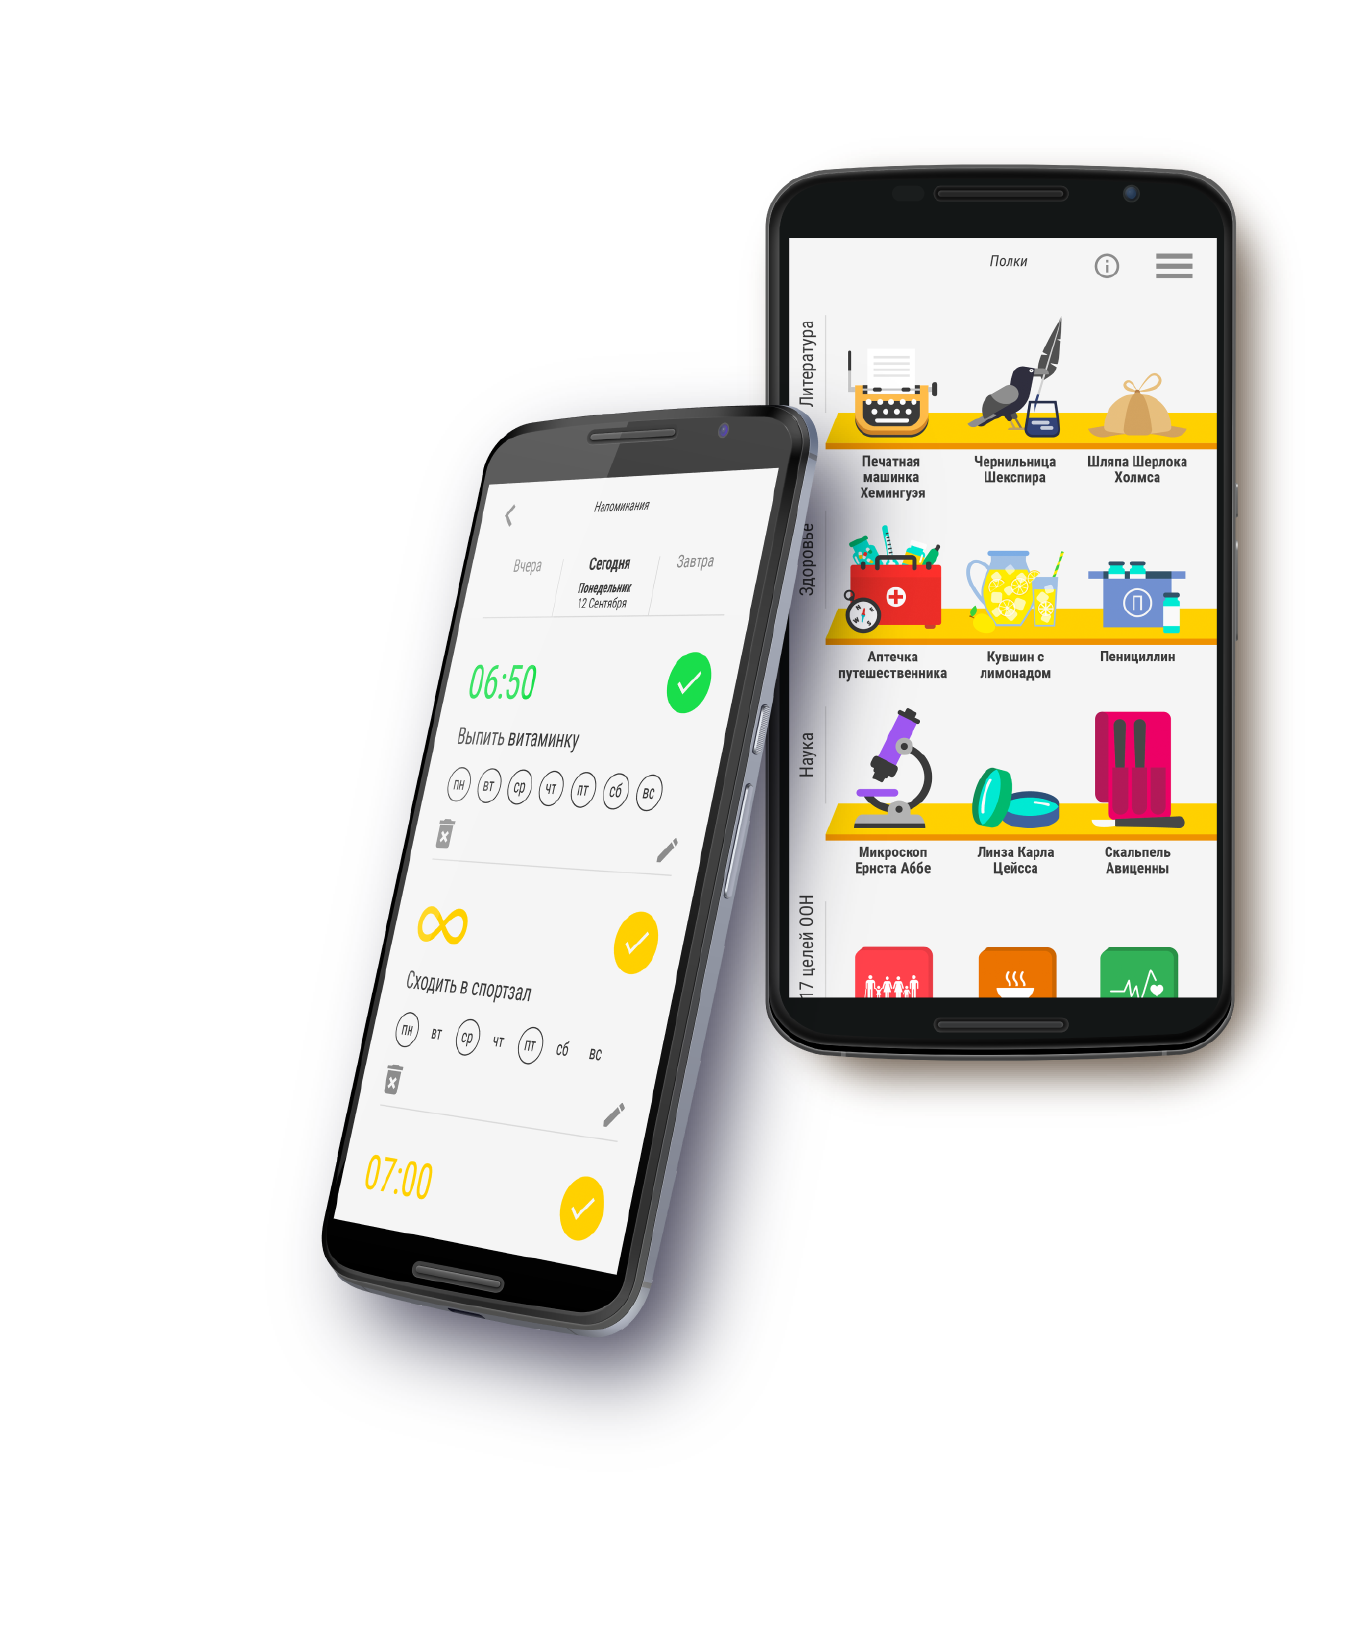
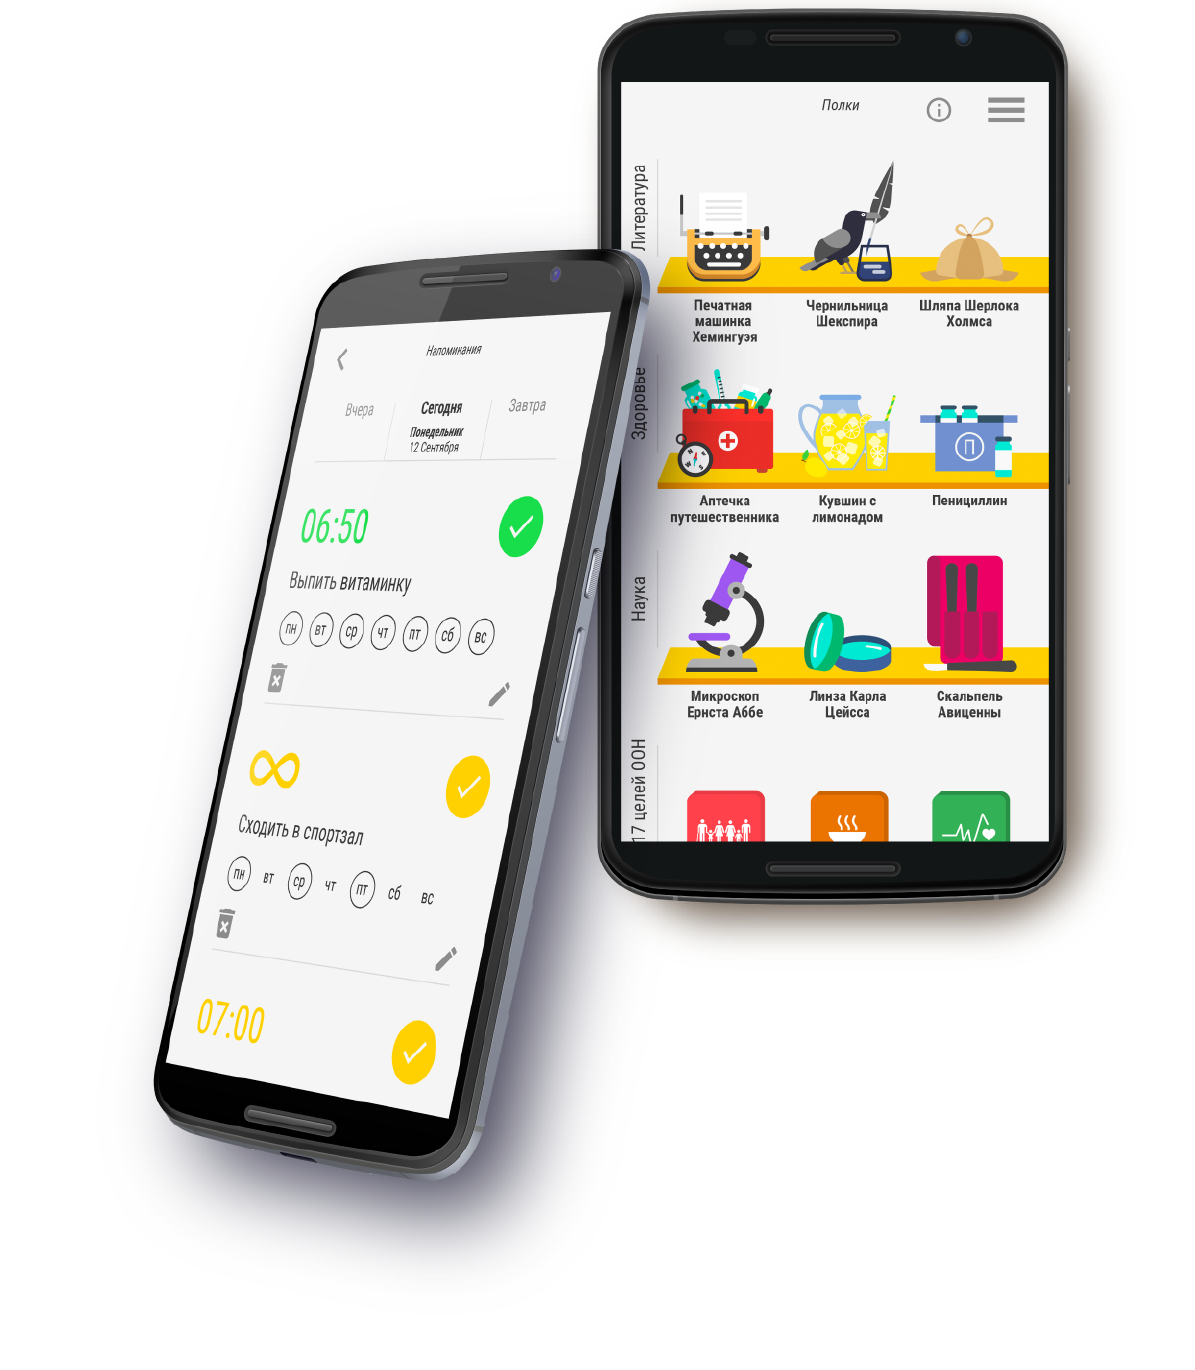
eah

diff --git a/index.html b/index.html
@@ -90,21 +90,21 @@
 
 			<!-- Main content -->
 			<div class="container align-center" id="main_content">
-				<div class="content_container row">
-					<div class="col-xs-12 col-sm-12 col-md-12 col-lg-12 home_content">
-						<div class="container_fluid col-xs-8 col-sm-8 col-md-8 col-lg-8 padding_fix top_left_block">
-							<h1 class="slogan home_anim3">Воплощай свои мечты, будь мотивирован с Т! app</h1>
-							<div class="available_area home_anim2">
-								<img class="clock_width" src="images/ic_clock.png" alt="">
-								<h3>Мотиватор для выполнения ежедневных задач</h3>
-							</div>
-							<div class="cta_button_area home_anim4">
-								<div><button class="want_download">Хочу скачать!</button></div>
-							</div>
+				<div class="row">
+					<div class="col-xs-12 col-sm-12 col-md-12 col-lg-12 header_block">
+						<!-- <div class="col-xs-6 col-sm-6 col-md-8 col-lg-8 padding_fix"> -->
+						<h1 class="slogan home_anim3">Воплощай свои мечты, будь мотивирован с Т! app</h1>
+						<div class="available_area home_anim2">
+							<img class="clock_width" src="images/ic_clock.png" alt="">
+							<h3>Мотиватор для выполнения ежедневных задач</h3>
 						</div>
-						<div class="col-xs-7 col-sm-7 col-md-7 col-lg-7 col-xs-offset-5 col-sm-offset-5 col-md-offset-5 col-lg-offset-5 padding_fix top_right_block">
-							<img class="img_responsive image_float" src="images/phone-01.png" alt="">
-						</div>		
+						<div class="cta_button_area home_anim4">
+							<div><button class="want_download">Хочу скачать!</button></div>
+						</div>
+						<!-- </div> -->
+						<!-- <div class="col-xs-6 col-sm-6 col-md-4 col-lg-4 padding_fix"> -->
+						<img class="image_float" src="images/phone-01_2x.png" alt="">
+						<!-- </div>		 -->
 					</div>
 				</div>			
 			</div>  		
@@ -341,55 +341,48 @@
 		
 		<!-- Team #################### -->
 		<section id="teen" class="subsection background_color1">
+			<div class="container-fluid">
 				<img class="middle_puzzle" src="images/puzzle-07_2x.png" alt="">
-				<div class="row">
-					<div class="col-xs-12 col-sm-12 col-md-12 col-lg-12 align-center team_anim1">
-						<div class="intro">
-							<h2>Команда идейных вдохновителей</h2>
-							<h4 class="teenergizer">TEENERGIZER!</h4>
-						</div>
-					</div>
+				<div class="align-center team_anim1 intro teener_team">
+					<h2>Команда идейных вдохновителей</h2>
+					<h4 class="teenergizer">TEENERGIZER!</h4>
 				</div>
-				
-				<div class="row">
-					<div class="col-xs-12 col-sm-12 col-md-12 col-lg-12 align-center team_anim2">
-						<div class="super_slider_02 col-xs-10 col-sm-8 col-md-7 col-lg-7 col-md-offset-1 col-lg-offset-1 col-xs-offset-1 col-sm-offset-0">
-							<div class="prev arrow_left"></div>
-							<div class="col-xs-10 col-sm-10 col-md-10 col-lg-10 team_anim2 effect3">
-								<div id="owl-demos" class="effect2">
-									<div class="item"><img class="img_responsive" src="images/people_01.jpg" alt=""></div>
-									<div class="item"><img class="img_responsive" src="images/people_02.jpg" alt=""></div>
-									<div class="item"><img class="img_responsive" src="images/people_03.jpg" alt=""></div>
-									<div class="item"><img class="img_responsive" src="images/people_04.jpg" alt=""></div>
-								</div>
-							</div>	
-							<div class="next arrow_right"></div>
-						</div>
-						<div class="col-xs-10 col-sm-4 col-md-3 col-lg-3 col-xs-offset-1 col-sm-offset-0 col-md-offset-0 col-lg-offset-0 align-left block_slider_text">
-							<div class="row">
-								<div class="col-xs-12 col-sm-12 col-md-12 col-lg-12 more_info_anim9 triangle_box without_margin">
-									<div class="triangle_left hidden-xs"></div>
-									<div class="box_left_border">
-										<p><span class="upper_leter">В</span>сем извесно, что подростковый возраст&nbsp;&mdash; это сложный период в жизни каждого человека. Миллионы интереснейших идей появляются в твоей голове и забываются через несколько минут, и вспомнить их&nbsp;&mdash; практически нереально.</p>
-										<p><span class="upper_leter">У</span> нашей команды появилась идея создать приложение, которое поможет тебе ничего не забыть и сделать всё вовремя.</p>
-									</div>
-								</div>	
+				<div class="col-xs-12 col-sm-12 col-md-12 col-lg-12 align-center team_anim2">
+					<div class="super_slider_02 col-xs-10 col-sm-8 col-md-7 col-lg-7 col-md-offset-1 col-lg-offset-1 col-xs-offset-1 col-sm-offset-0">
+						<div class="prev arrow_left"></div>
+						<div class="col-xs-10 col-sm-10 col-md-10 col-lg-10 team_anim2 effect3">
+							<div id="owl-demos" class="effect2">
+								<div class="item"><img class="img_responsive" src="images/people_01.jpg" alt=""></div>
+								<div class="item"><img class="img_responsive" src="images/people_02.jpg" alt=""></div>
+								<div class="item"><img class="img_responsive" src="images/people_03.jpg" alt=""></div>
+								<div class="item"><img class="img_responsive" src="images/people_04.jpg" alt=""></div>
+							</div>
+						</div>	
+						<div class="next arrow_right"></div>
+					</div>
+					<div class="col-xs-10 col-sm-4 col-md-3 col-lg-3 col-xs-offset-1 col-sm-offset-0 col-md-offset-0 col-lg-offset-0 align-left block_slider_text">
+						<div class="col-xs-12 col-sm-12 col-md-12 col-lg-12 more_info_anim9 triangle_box without_margin">
+							<div class="triangle_left hidden-xs"></div>
+							<div class="box_left_border">
+								<p><span class="upper_leter">В</span>сем извесно, что подростковый возраст&nbsp;&mdash; это сложный период в жизни каждого человека. Миллионы интереснейших идей появляются в твоей голове и забываются через несколько минут, и вспомнить их&nbsp;&mdash; практически нереально.</p>
+								<p><span class="upper_leter">У</span> нашей команды появилась идея создать приложение, которое поможет тебе ничего не забыть и сделать всё вовремя.</p>
 							</div>
 						</div>
 					</div>
 				</div>
+			</div>
 		</section>
-		<!-- //Team -->
-		<section id="cta_download" class="subsection background_color3">
-			<img src="images/puzzle-08_2x.png" alt="">
-			<div class="row">
+		<!-- Team -->
+		<section id="cta_download" class="">
+			<div class="container-fluid">
+				<img class="cta_download_img" src="images/puzzle-08_2x.png" alt="">
 				<div class="col-xs-12 col-sm-12 col-md-12 col-lg-12 align-center">
 					<div class="intro bottom_headler">
 						<h2>Успей сделать всё, вместе с Т! app, мобильным приложением для мотивации</h2>
 						<button class="want_download">Хочу скачать!</button>
 					</div>
 				</div>
-			</div>	
+			</div>
 		</section>
 		
 		<!-- Contact #################### -->

diff --git a/css/main.css b/css/main.css
@@ -501,8 +501,8 @@ Author:         Mat Przegietka
 	height:5.14rem;
 	padding-top:1.7rem;
 	position: fixed;
-	top:0;
-	left: 0;
+	/*top:0;
+	right: 0;*/
 	width: 100%;
 	z-index:1000;
 }
@@ -1500,17 +1500,18 @@ label {
 		color: #fff;
 	}
 }
-.top_left_block {
+.header_block {
 	margin-top: 8rem;
 	text-align: left;
 }
-.top_right_block {
-	position: absolute;
-	margin-top: 5rem;
-	/*margin-right: -2rem;*/
+.header_block h1 {
+	width: 60%;
 }
 .image_float {
-	
+	width: 48%;
+    position: absolute;
+    right: -3%;
+    top: 8%;
 }
 #more_info {
 	padding: 0;
@@ -1736,6 +1737,9 @@ label {
 	background: url('../images/puzzle-06_2x.png') no-repeat top right;
 	background-size: 17% auto;
 }
+.teener_team {
+	overflow: hidden;
+}
 .teenergizer {
 	font-family:Roboto Condensed;
 	color: #FFCD05;
@@ -1829,7 +1833,15 @@ label {
 	font-size: 26px;
 	margin-bottom: 36px;
 }
-#cta_download img {
+
+#cta_download {
+	position: relative;
+	padding-top: 2rem;
+	padding-bottom: 3rem;
+	background-color: #FFCD05;
+	z-index: 1000;
+}
+.cta_download_img {
 	position: absolute;
 	width: 9%;
 	top: -12%;

diff --git a/css/james_typography.css b/css/james_typography.css
@@ -21,6 +21,7 @@ html {
  * Remove default margin.
  */
 body {
+  overflow: hidden;
   margin: 0; }
 
 /* HTML5 display definitions
